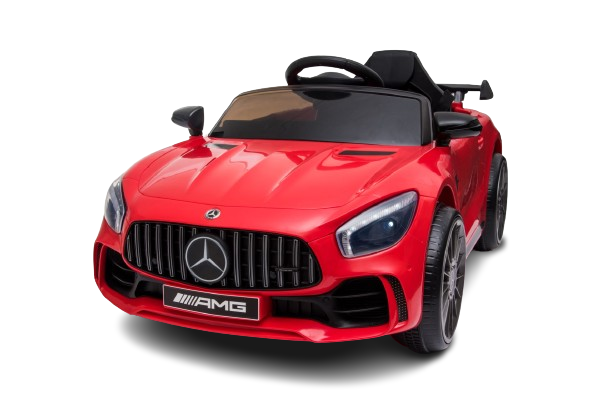
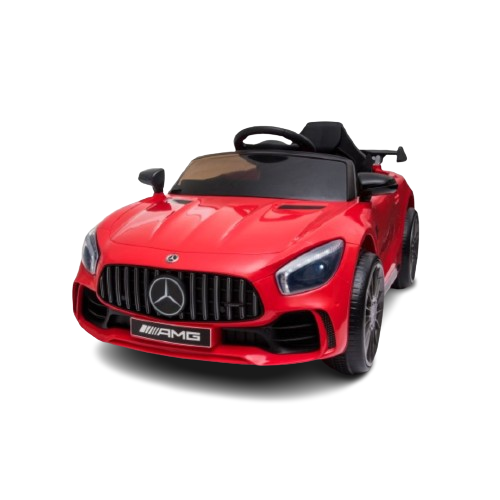
all products now have full preview images

diff --git a/src/Data/productsData.jsx b/src/Data/productsData.jsx
@@ -1,36 +1,65 @@
 import { v4 as uuid } from "uuid";
 import {
   bookshelf,
+  bookshelfThum1,
+  bookshelfThum2,
+  bookshelfThum3,
   canonCamera,
   canonCameraThum1,
   canonCameraThum2,
   canonCameraThum3,
   comfortChair,
+  comfortChairThum1,
+  comfortChairThum2,
+  comfortChairThum3,
   cpuCooler,
   cpuCoolerThum1,
   cpuCoolerThum2,
   cpuCoolerThum3,
   curology,
+  curologyThum1,
+  curologyThum2,
+  curologyThum4,
   dogFood,
+  dogFoodThum1,
+  dogFoodThum2,
+  dogFoodThum3,
   gamingLaptop,
+  gamingLaptopThum1,
+  gamingLaptopThum2,
+  gamingLaptopThum3,
   gamingMonitor,
   gamingMonitorThum1,
   gamingMonitorThum2,
+  gamingMonitorThum3,
   gucciBag,
   gucciBagThum1,
+  gucciBagThum3,
+  gucciBagThum4,
   kidsCar,
   kidsCarThum1,
+  kidsCarThum2,
+  kidsCarThum3,
   northCoat,
+  northCoatThum1,
+  northCoatThum2,
+  northCoatThum3,
   ps5Gamepad,
   ps5GamepadThum1,
   ps5GamepadThum2,
+  ps5GamepadThum3,
   satinJacket,
+  satinJacketThum1,
+  satinJacketThum2,
+  satinJacketThum3,
   soccerCleats,
   soccerCleatsThum1,
   soccerCleatsThum2,
   soccerCleatsThum3,
   usbGamepad,
   usbGamepadThum1,
+  usbGamepadThum2,
+  usbGamepadThum3,
   wiredKeyboard,
   wiredKeyboardThum1,
   wiredKeyboardThum2,
@@ -50,7 +79,12 @@ export const productsData = [
     for easy bubble free install & mess free removal Pressure sensitive.`,
     addedDate: "2024/2/2",
     img: ps5Gamepad,
-    otherImages: [ps5Gamepad, ps5GamepadThum1, ps5GamepadThum2],
+    otherImages: [
+      ps5Gamepad,
+      ps5GamepadThum1,
+      ps5GamepadThum2,
+      ps5GamepadThum3,
+    ],
     rate: 5,
     votes: 88,
     sold: 105,
@@ -97,7 +131,12 @@ export const productsData = [
     Monitor brings every detail to life with vibrant colors and crisp clarity.`,
     addedDate: "2024/3/15",
     img: gamingMonitor,
-    otherImages: [gamingMonitor, gamingMonitorThum1, gamingMonitorThum2],
+    otherImages: [
+      gamingMonitor,
+      gamingMonitorThum1,
+      gamingMonitorThum2,
+      gamingMonitorThum3,
+    ],
     rate: 5,
     votes: 99,
     sold: 463,
@@ -105,7 +144,7 @@ export const productsData = [
   },
   {
     shortName: "S-Series Chair",
-    name: "S-Series Comfort Chair ",
+    name: "S-Series Comfort Chair",
     type: "furniture",
     price: 400,
     discount: 25,
@@ -117,7 +156,12 @@ export const productsData = [
     space. Say goodbye to discomfort and hello to relaxation with the S-Series Comfort Chair.`,
     addedDate: "2024/1/1",
     img: comfortChair,
-    otherImages: [comfortChair],
+    otherImages: [
+      comfortChair,
+      comfortChairThum1,
+      comfortChairThum2,
+      comfortChairThum3,
+    ],
     rate: 4.5,
     votes: 99,
     sold: 211,
@@ -137,7 +181,7 @@ export const productsData = [
     outdoors or running errands in the city, The North Coat is sure to turn heads wherever you go.`,
     addedDate: "2024/3/7",
     img: northCoat,
-    otherImages: [northCoat],
+    otherImages: [northCoat, northCoatThum1, northCoatThum2, northCoatThum3],
     rate: 5,
     votes: 65,
     sold: 1405,
@@ -157,7 +201,7 @@ export const productsData = [
     traveling in first-class or hitting the gym, the Gucci Duffle Bag is the epitome of luxury and functionality.`,
     addedDate: "2022/9/15",
     img: gucciBag,
-    otherImages: [gucciBag, gucciBagThum1],
+    otherImages: [gucciBag, gucciBagThum1, gucciBagThum3, gucciBagThum4],
     rate: 3.5,
     votes: 159,
     sold: 1533,
@@ -198,7 +242,7 @@ export const productsData = [
     with any décor. Say goodbye to clutter and hello to sophistication with the Small Bookshelf.`,
     addedDate: "2023/12/22",
     img: bookshelf,
-    otherImages: [bookshelf],
+    otherImages: [bookshelf, bookshelfThum1, bookshelfThum2, bookshelfThum3],
     rate: 5,
     votes: 201,
     sold: 1602,
@@ -218,7 +262,7 @@ export const productsData = [
     happy, healthy dogs with Breed Dry Dog Food.`,
     addedDate: "2024/3/7",
     img: dogFood,
-    otherImages: [dogFood],
+    otherImages: [dogFood, dogFoodThum1, dogFoodThum2, dogFoodThum3],
     rate: 3,
     votes: 35,
     sold: 59,
@@ -263,15 +307,20 @@ export const productsData = [
     to lag and hello to smooth gameplay with the ASUS FHD Gaming Laptop.`,
     addedDate: "2024/3/7",
     img: gamingLaptop,
-    otherImages: [gamingLaptop],
-    rate: 0,
-    votes: 0,
-    sold: 100,
+    otherImages: [
+      gamingLaptop,
+      gamingLaptopThum1,
+      gamingLaptopThum2,
+      gamingLaptopThum3,
+    ],
+    rate: 4.5,
+    votes: 1049,
+    sold: 1792,
     id: uuid(),
   },
   {
     shortName: "Curology",
-    name: "Curology Product Set ",
+    name: "Curology Product Set",
     type: "curology",
     price: 700,
     discount: 0,
@@ -283,7 +332,7 @@ export const productsData = [
     dull, uneven skin and hello to a complexion that glows with health and vitality with the Curology Product Set.`,
     addedDate: "2024/3/7",
     img: curology,
-    otherImages: [curology],
+    otherImages: [curology, curologyThum1, curologyThum2, curologyThum4],
     rate: 5,
     votes: 325,
     sold: 100,
@@ -293,9 +342,9 @@ export const productsData = [
     shortName: "Electric Car",
     name: "Kids Electric Car",
     type: "electronics",
-    price: 39,
+    price: 1529,
     discount: 0,
-    afterDiscount: 39,
+    afterDiscount: 1529,
     description: `
     Spark your child's imagination with the Kids Electric Car. Designed for fun and excitement, this car features
     realistic details and effortless controls that make every ride an adventure. Whether they're cruising around
@@ -303,9 +352,9 @@ export const productsData = [
     of all ages. Say goodbye to boredom and hello to endless fun with the Kids Electric Car.`,
     addedDate: "2024/3/7",
     img: kidsCar,
-    otherImages: [kidsCar, kidsCarThum1],
-    rate: 0,
-    votes: 0,
+    otherImages: [kidsCar, kidsCarThum1, kidsCarThum2, kidsCarThum3],
+    rate: 3,
+    votes: 22,
     sold: 100,
     id: uuid(),
   },
@@ -348,7 +397,12 @@ export const productsData = [
     out on top. Say goodbye to laggy inputs and hello to smooth, seamless gameplay with the GP11 Shooter USB Gamepad.`,
     addedDate: "2024/3/7",
     img: usbGamepad,
-    otherImages: [usbGamepad, usbGamepadThum1],
+    otherImages: [
+      usbGamepad,
+      usbGamepadThum1,
+      usbGamepadThum2,
+      usbGamepadThum3,
+    ],
     rate: 5,
     votes: 64,
     sold: 100,
@@ -368,7 +422,12 @@ export const productsData = [
     goodbye to boring outerwear and hello to effortless style with the Quilted Satin Jacket.`,
     addedDate: "2024/3/7",
     img: satinJacket,
-    otherImages: [satinJacket],
+    otherImages: [
+      satinJacket,
+      satinJacketThum1,
+      satinJacketThum2,
+      satinJacketThum3,
+    ],
     rate: 4.5,
     votes: 55,
     sold: 100,

diff --git a/src/Assets/Products/ProductImgs.js b/src/Assets/Products/ProductImgs.js
@@ -1,29 +1,58 @@
+import dogFoodThum1 from "./breed-dry-dog-food/breed-dry-dog-food-thum1.png";
+import dogFoodThum2 from "./breed-dry-dog-food/breed-dry-dog-food-thum2.png";
+import dogFoodThum3 from "./breed-dry-dog-food/breed-dry-dog-food-thum3.png";
 import dogFood from "./breed-dry-dog-food/breed-dry-dog-food.png";
 import canonCameraThum1 from "./canon-camera/canon-camera-thum1.png";
 import canonCameraThum2 from "./canon-camera/canon-camera-thum2.png";
 import canonCameraThum3 from "./canon-camera/canon-camera-thum3.png";
 import canonCamera from "./canon-camera/canon-camera.png";
+import comfortChairThum1 from "./comfort-chair/comfort-chair-thum1.png";
+import comfortChairThum2 from "./comfort-chair/comfort-chair-thum2.png";
+import comfortChairThum3 from "./comfort-chair/comfort-chair-thum3.png";
 import comfortChair from "./comfort-chair/comfort-chair.png";
+import curologyThum1 from "./curology-product-set/curology-product-set-thum1.png";
+import curologyThum2 from "./curology-product-set/curology-product-set-thum2.png";
+import curologyThum4 from "./curology-product-set/curology-product-set-thum4.png";
 import curology from "./curology-product-set/curology-product-set.png";
+import gamingLaptopThum1 from "./gaming-laptop/gaming-laptop-thum1.png";
+import gamingLaptopThum2 from "./gaming-laptop/gaming-laptop-thum2.png";
+import gamingLaptopThum3 from "./gaming-laptop/gaming-laptop-thum3.png";
 import gamingLaptop from "./gaming-laptop/gaming-laptop.png";
 import gamingMonitorThum1 from "./gaming-monitor/gaming-monitor-thum1.png";
 import gamingMonitorThum2 from "./gaming-monitor/gaming-monitor-thum2.png";
+import gamingMonitorThum3 from "./gaming-monitor/gaming-monitor-thum3.png";
 import gamingMonitor from "./gaming-monitor/gaming-monitor.png";
 import gucciBagThum1 from "./gucci-duffle-bag/gucci-duffle-bag-thum1.png";
+import gucciBagThum3 from "./gucci-duffle-bag/gucci-duffle-bag-thum3.png";
+import gucciBagThum4 from "./gucci-duffle-bag/gucci-duffle-bag-thum4.png";
 import gucciBag from "./gucci-duffle-bag/gucci-duffle-bag.png";
 import kidsCarThum1 from "./kids-electric-car/kids-electric-car-thum1.png";
+import kidsCarThum2 from "./kids-electric-car/kids-electric-car-thum2.png";
+import kidsCarThum3 from "./kids-electric-car/kids-electric-car-thum3.png";
 import kidsCar from "./kids-electric-car/kids-electric-car.png";
+import northCoatThum1 from "./north-coat/north-coat-thum1.png";
+import northCoatThum2 from "./north-coat/north-coat-thum2.png";
+import northCoatThum3 from "./north-coat/north-coat-thum3.png";
 import northCoat from "./north-coat/north-coat.png";
 import ps5GamepadThum1 from "./ps5-gamepad/ps5-gamepad-thum1.png";
 import ps5GamepadThum2 from "./ps5-gamepad/ps5-gamepad-thum2.png";
+import ps5GamepadThum3 from "./ps5-gamepad/ps5-gamepad-thum3.png";
 import ps5Gamepad from "./ps5-gamepad/ps5-gamepad.png";
+import satinJacketThum1 from "./quilted-satin-jacket/quilted-satin-jacket-thum1.png";
+import satinJacketThum2 from "./quilted-satin-jacket/quilted-satin-jacket-thum2.png";
+import satinJacketThum3 from "./quilted-satin-jacket/quilted-satin-jacket-thum3.png";
 import satinJacket from "./quilted-satin-jacket/quilted-satin-jacket.png";
 import cpuCoolerThum1 from "./rgb-liquid-cpu-cooler/rgb-liquid-cpu-cooler-thum1.png";
 import cpuCoolerThum2 from "./rgb-liquid-cpu-cooler/rgb-liquid-cpu-cooler-thum2.png";
 import cpuCoolerThum3 from "./rgb-liquid-cpu-cooler/rgb-liquid-cpu-cooler-thum3.png";
 import cpuCooler from "./rgb-liquid-cpu-cooler/rgb-liquid-cpu-cooler.png";
+import bookshelfThum1 from "./small-bookshelf/small-bookshelf-thum1.png";
+import bookshelfThum2 from "./small-bookshelf/small-bookshelf-thum2.png";
+import bookshelfThum3 from "./small-bookshelf/small-bookshelf-thum3.png";
 import bookshelf from "./small-bookshelf/small-bookshelf.png";
 import usbGamepadThum1 from "./usb-gamepad/usb-gamepad-thum1.png";
+import usbGamepadThum2 from "./usb-gamepad/usb-gamepad-thum2.png";
+import usbGamepadThum3 from "./usb-gamepad/usb-gamepad-thum3.png";
 import usbGamepad from "./usb-gamepad/usb-gamepad.png";
 import wiredKeyboardThum1 from "./wired-keyboard/wired-keyboard-thum1.png";
 import wiredKeyboardThum2 from "./wired-keyboard/wired-keyboard-thum2.png";
@@ -37,36 +66,65 @@ import soccerCleats from "./zoom-soccer-cleats/zoom-soccer-cleats.png";
 
 export {
   bookshelf,
+  bookshelfThum1,
+  bookshelfThum2,
+  bookshelfThum3,
   canonCamera,
   canonCameraThum1,
   canonCameraThum2,
   canonCameraThum3,
   comfortChair,
+  comfortChairThum1,
+  comfortChairThum2,
+  comfortChairThum3,
   cpuCooler,
   cpuCoolerThum1,
   cpuCoolerThum2,
   cpuCoolerThum3,
   curology,
+  curologyThum1,
+  curologyThum2,
+  curologyThum4,
   dogFood,
+  dogFoodThum1,
+  dogFoodThum2,
+  dogFoodThum3,
   gamingLaptop,
+  gamingLaptopThum1,
+  gamingLaptopThum2,
+  gamingLaptopThum3,
   gamingMonitor,
   gamingMonitorThum1,
   gamingMonitorThum2,
+  gamingMonitorThum3,
   gucciBag,
   gucciBagThum1,
+  gucciBagThum3,
+  gucciBagThum4,
   kidsCar,
   kidsCarThum1,
+  kidsCarThum2,
+  kidsCarThum3,
   northCoat,
+  northCoatThum1,
+  northCoatThum2,
+  northCoatThum3,
   ps5Gamepad,
   ps5GamepadThum1,
   ps5GamepadThum2,
+  ps5GamepadThum3,
   satinJacket,
+  satinJacketThum1,
+  satinJacketThum2,
+  satinJacketThum3,
   soccerCleats,
   soccerCleatsThum1,
   soccerCleatsThum2,
   soccerCleatsThum3,
   usbGamepad,
   usbGamepadThum1,
+  usbGamepadThum2,
+  usbGamepadThum3,
   wiredKeyboard,
   wiredKeyboardThum1,
   wiredKeyboardThum2,
